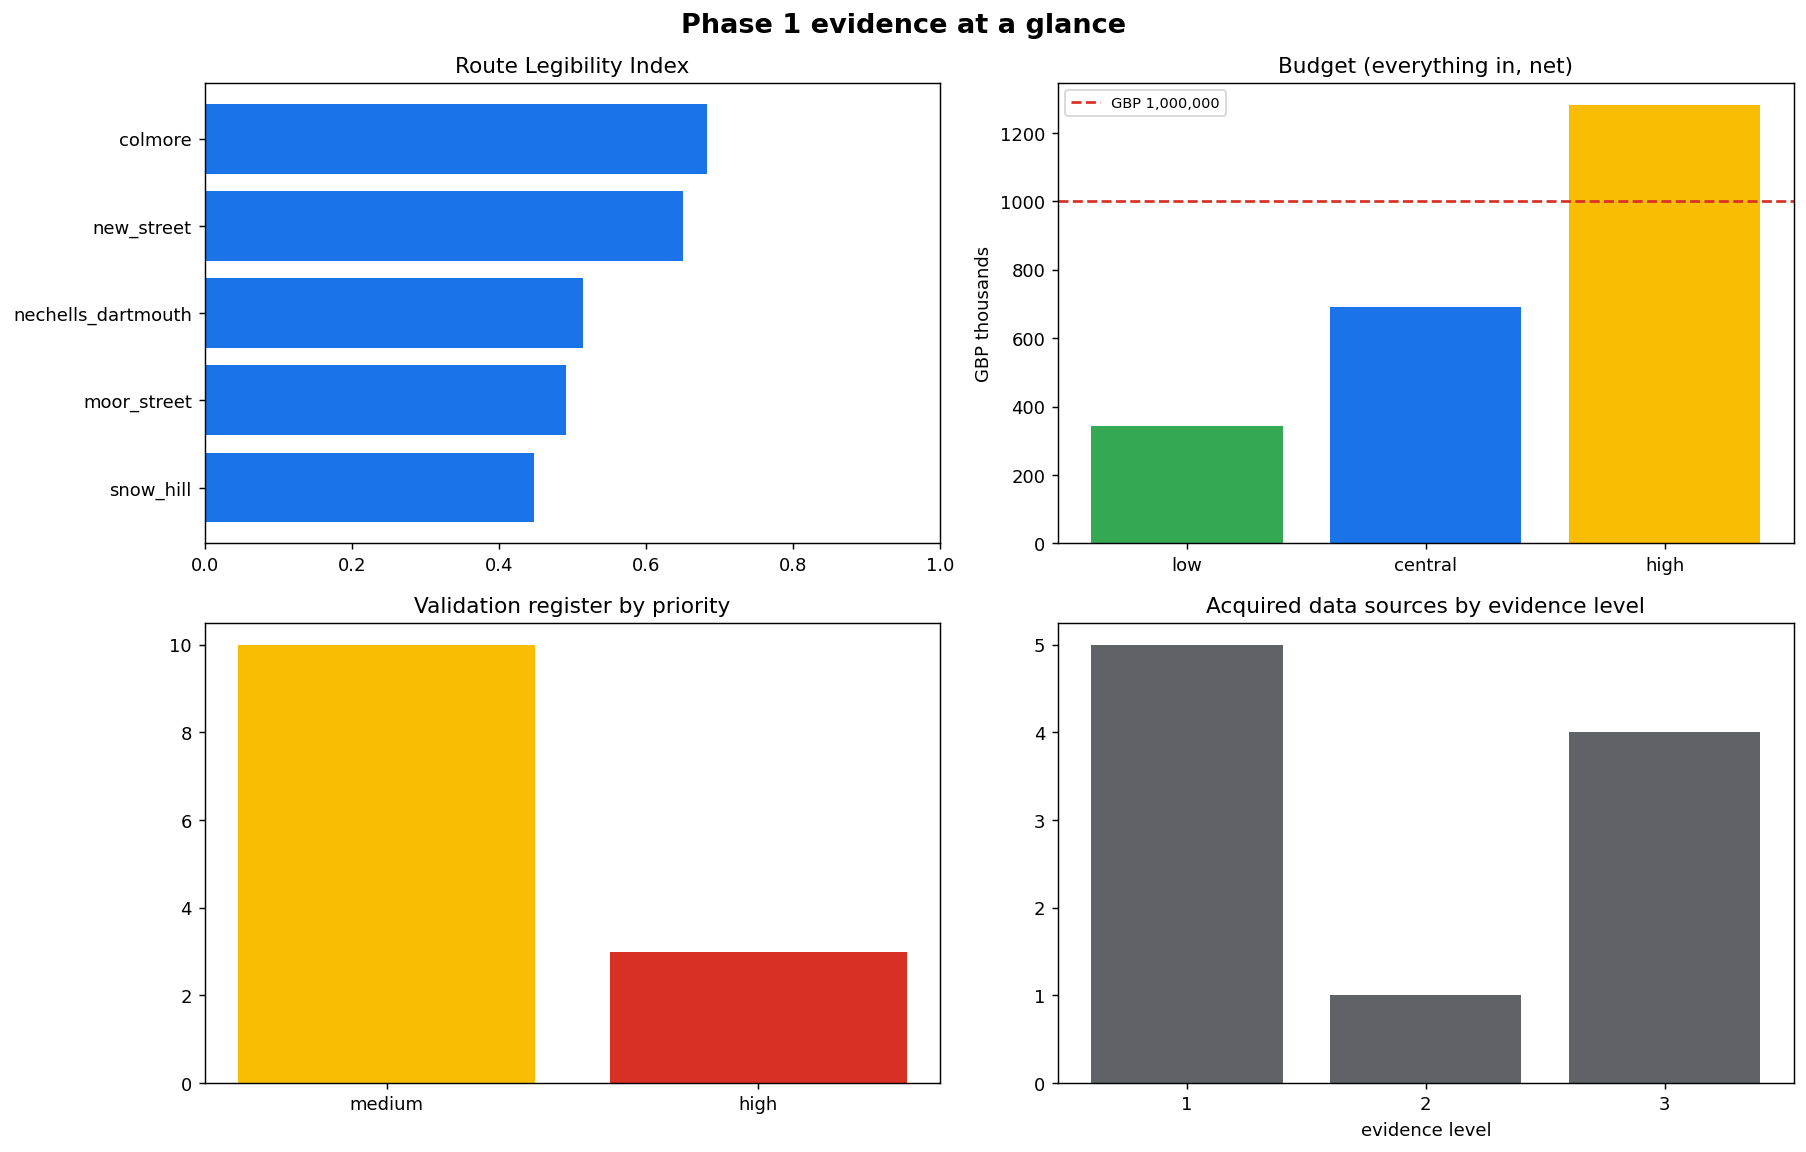
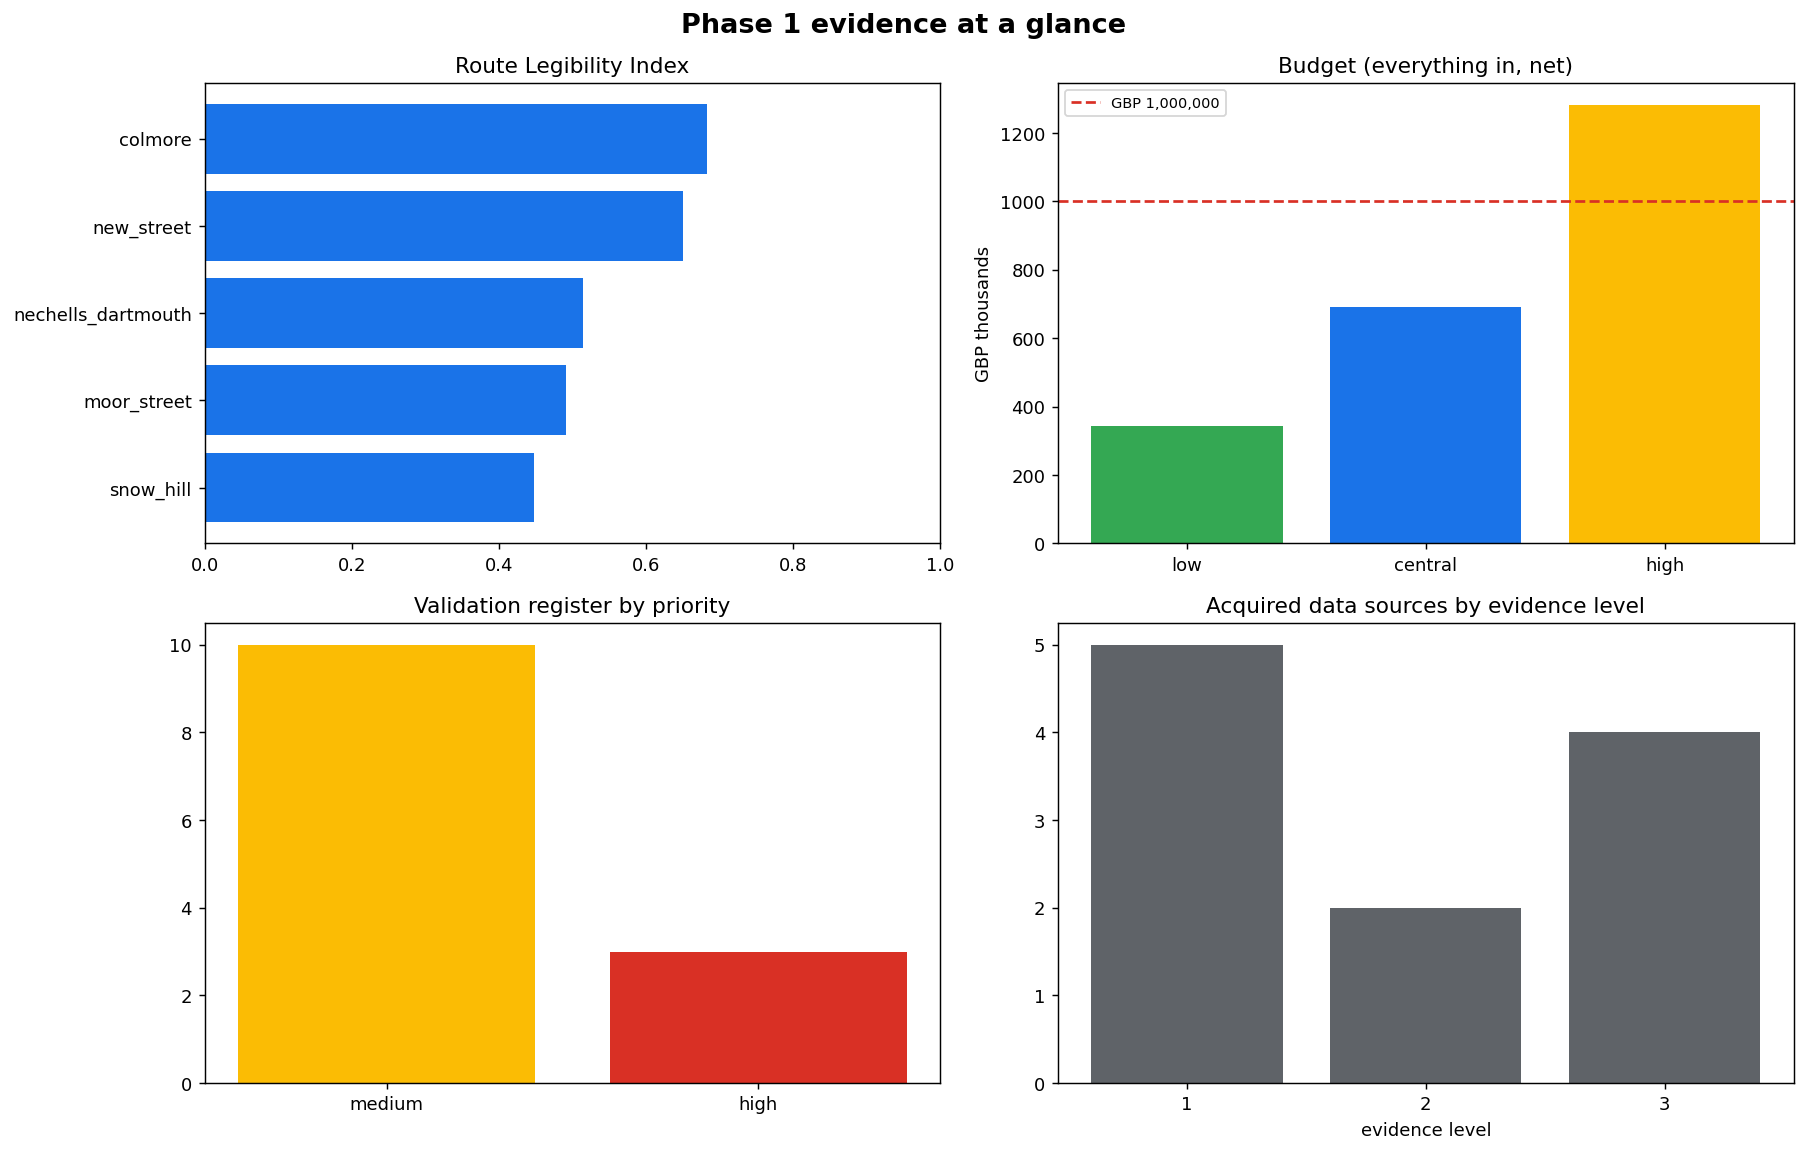
Model Nechells-side onward wayfinding into the B-KQ cluster
Funnel the Nechells catchment to the agreed Dartmouth/Jennens crossing and on along Jennens Road into the university cluster (Aston, BCU, Millennium Point, STEAMhouse, Innovation Birmingham). Need-justified greedy placement on the real walk network, wayfinders only (no corridor north/east). Refresh evidence-pack export, charts and config; minor lint cleanups.

Changed region(s): [[0.7132, 0.7812, 0.8682, 0.875]]

diff --git a/phase1_spinelens_ai/tests/test_wayfinding.py b/phase1_spinelens_ai/tests/test_wayfinding.py
@@ -38,7 +38,9 @@ def test_greedy_stops_when_no_gain() -> None:
 def test_spacing_constraint_blocks_close_sites() -> None:
     weights, covers = _setup()
     # forbid choosing Z once X is chosen
-    too_close = lambda a, b: {a, b} == {"X", "Z"}
+    def too_close(a: str, b: str) -> bool:
+        return {a, b} == {"X", "Z"}
+
     picks = wf.greedy_max_coverage(["X", "Y", "Z", "W"], covers, weights, k=2, too_close=too_close)
     assert picks[0]["node"] == "X"
     assert picks[1]["node"] == "Y"  # Z blocked, Y is next best

diff --git a/phase1_spinelens_ai/src/spinelens/metrics/legibility.py b/phase1_spinelens_ai/src/spinelens/metrics/legibility.py
@@ -11,8 +11,6 @@ from __future__ import annotations
 from dataclasses import dataclass
 from math import atan2, cos, degrees, radians, sin
 
-from spinelens.spatial.audit import haversine_m
-
 
 @dataclass(frozen=True)
 class LegibilityWeights:

diff --git a/phase1_spinelens_ai/src/spinelens/io/paths.py b/phase1_spinelens_ai/src/spinelens/io/paths.py
@@ -4,7 +4,6 @@ from __future__ import annotations
 
 from pathlib import Path
 
-
 PHASE1_ROOT = Path(__file__).resolve().parents[3]
 DATA_DIR = PHASE1_ROOT / "data"
 OUTPUTS_DIR = PHASE1_ROOT / "outputs"

diff --git a/phase1_spinelens_ai/src/spinelens/config.py b/phase1_spinelens_ai/src/spinelens/config.py
@@ -4,7 +4,6 @@ from __future__ import annotations
 
 from dataclasses import dataclass
 
-
 PHASE1_TOTAL_BUDGET_GBP = 1_000_000
 
 PHASE1_BUDGET_LINES: dict[str, int] = {

diff --git a/phase1_spinelens_ai/tests/test_gate0_artifacts.py b/phase1_spinelens_ai/tests/test_gate0_artifacts.py
@@ -6,7 +6,6 @@ import csv
 import json
 from pathlib import Path
 
-
 PHASE1_ROOT = Path(__file__).resolve().parents[1]
 DATA = PHASE1_ROOT / "data"
 

diff --git a/phase1_spinelens_ai/src/spinelens/gate0b.py b/phase1_spinelens_ai/src/spinelens/gate0b.py
@@ -13,7 +13,6 @@ from typing import Iterable
 
 import requests
 
-
 PRIORITY_1_SOURCE_IDS = {
     "osm_network",
     "os_open_roads",

diff --git a/phase1_spinelens_ai/tests/test_pavilion.py b/phase1_spinelens_ai/tests/test_pavilion.py
@@ -3,7 +3,6 @@
 from __future__ import annotations
 
 import pytest
-
 from spinelens.models import pavilion as pv
 
 

diff --git a/README.md b/README.md
@@ -136,14 +136,17 @@ phase1_spinelens_ai/
 python -m venv .bkqproj
 .\.bkqproj\Scripts\Activate.ps1
 python -m pip install -r requirements-lock-py311.txt   # verified Python 3.11.9 lock
+python -m pip install -e .                              # install local spinelens package
 python -m pytest                                       # 80 tests
 ```
 Notebooks run on the `bkqproj` kernel; execute with `jupyter nbconvert --to notebook --execute`.
 
 ## 8. Roadmap
 
-- **Next:** a visual web app (the `evidence_pack.json` + GeoJSON layers exported by notebook 13
-  are its data contract) — a shared map with story chapters from the city core to B-KQ.
+- **Next:** the production-grade, zero-runtime-cost presentation web app described in
+  `webapp_implementation_plan.md`. The app will be static Vite/React, fed by a sanitized public
+  bundle generated from `evidence_pack.json` + GeoJSON layers, and tested locally for UX,
+  accessibility and performance before deployment.
 - **Then:** field validation, QS costing and consents (briefed in the validation register), and
   Phases 2–3.
 
